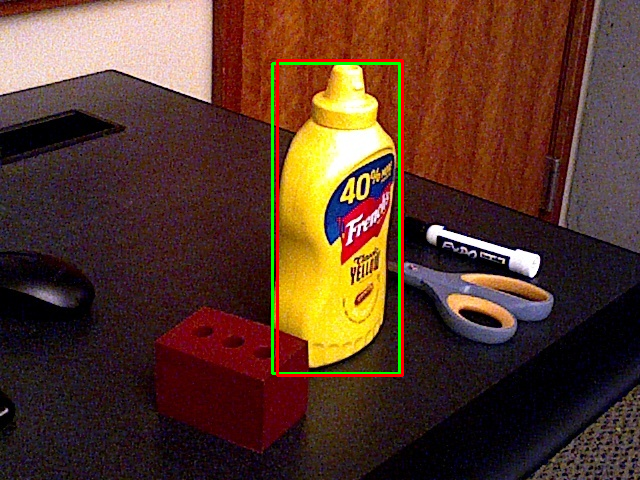
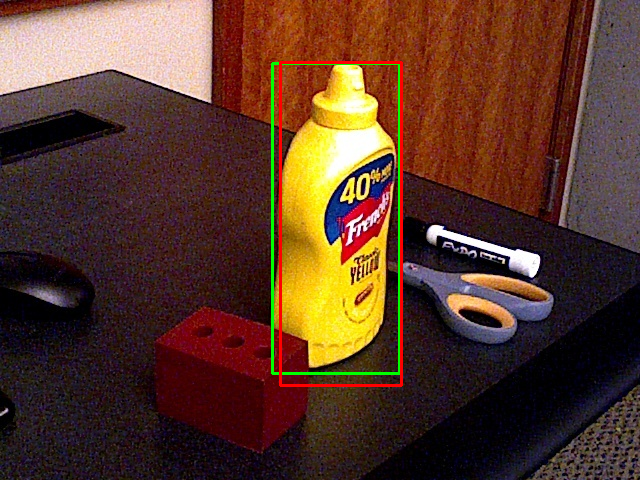
surf

Changed region(s): [[0.4062, 0.125, 0.6562, 0.8125]]

diff --git a/code/src/ObjectDetector/FeaturePipeline/FeaturePipeline.cpp b/code/src/ObjectDetector/FeaturePipeline/FeaturePipeline.cpp
@@ -76,18 +76,18 @@ Label FeaturePipeline::findBoundingBox(const std::vector<cv::DMatch>& matches,
     const cv::Mat& img_scene,
     Object_Type object_type) const 
 {
-    const int minMatches= 10;
+    const int minMatches = 4;
 
     if (matches.size() < minMatches) {
-        //std::cout << "Not enough matches are found - " << matches.size() << "/" << minMatches << std::endl;
+        std::cout << "Not enough matches are found - " << matches.size() << "/" << minMatches << std::endl;
         return Label(object_type, cv::Rect());
     }
 
-    //cv::Mat cropped_imgModel = img_model(cv::boundingRect(mask_model)); // crop the image to remove the white background of the mask
-    //cv::Mat cropped_maskModel = mask_model(cv::boundingRect(mask_model)); // crop the mask to remove the white background of the mask
+    cv::Mat cropped_imgModel = img_model(cv::boundingRect(mask_model)); // crop the image to remove the white background of the mask
+    cv::Mat cropped_maskModel = mask_model(cv::boundingRect(mask_model)); // crop the mask to remove the white background of the mask
 
-    cv::Mat cropped_imgModel = img_model.clone();   //just to avoid changing the names on the next varaibles, in the definitive version I will change the names
-    cv::Mat cropped_maskModel = mask_model.clone();
+    //cv::Mat cropped_imgModel = img_model.clone();   //just to avoid changing the names on the next varaibles, in the definitive version I will change the names
+    //cv::Mat cropped_maskModel = mask_model.clone();
 
     std::vector<cv::Point2f> scene_pts, model_pts;
     for (const auto& match : matches) {
@@ -99,12 +99,11 @@ Label FeaturePipeline::findBoundingBox(const std::vector<cv::DMatch>& matches,
     cv::Mat homography_mask;
     cv::Mat H = cv::findHomography(model_pts, scene_pts, cv::RANSAC, 5.0, homography_mask);
     if (H.empty()){
-        //std::cout << "H empty" << std::endl;
+        std::cout << "H empty" << std::endl;
         return Label(object_type, cv::Rect());
     }
-    // std::cout << "H: " << H << std::endl;
+    
 
-   
     cv::Rect mask_rect = cv::boundingRect(cropped_maskModel);
     std::vector<cv::Point2f> model_corners = {
         {static_cast<float>(mask_rect.x), static_cast<float>(mask_rect.y)},
@@ -120,19 +119,7 @@ Label FeaturePipeline::findBoundingBox(const std::vector<cv::DMatch>& matches,
     std::vector<cv::Point2f> scene_corners;     //corners of the detected object in the scene (not a horizontal/vertical rectangle, but commonly rotated)
     cv::perspectiveTransform(model_corners, scene_corners, H);
     
-    /*
-    scene_corners[0] = scene_corners[0] + model_corners[1] - model_corners[0];  //keep the subtraction even if model_corners[0] is 0,0
-    scene_corners[1] = scene_corners[1] + model_corners[1] - model_corners[0];
-    scene_corners[2] = scene_corners[2] + model_corners[1] - model_corners[0];
-    scene_corners[3] = scene_corners[3] + model_corners[1] - model_corners[0];
-    */
-   
-    /*
-    for( int i = 0; i < scene_corners.size(); i++){
-        std::cout << "scene_corners[" << i << "]: " << scene_corners[i] << std::endl;
-        
-    }*/
-
+    
     std::vector<cv::Point2i> scene_corners_int;
     for( int i = 0; i < scene_corners.size(); i++){
         scene_corners_int.push_back(cv::Point2i(scene_corners[i].x, scene_corners[i].y));

diff --git a/code/src/ObjectDetector/FeaturePipeline/FeatureDetector.cpp b/code/src/ObjectDetector/FeaturePipeline/FeatureDetector.cpp
@@ -2,6 +2,7 @@
 #include "../../../include/CustomErrors.h"
 #include "../../../include/Utils.h"
 #include "../../../include/ObjectDetector/FeaturePipeline/ImageFilter.h"
+#include <opencv2/xfeatures2d.hpp>
 
 void FeatureDetector::init(){
     switch (this->type) {
@@ -10,6 +11,9 @@ void FeatureDetector::init(){
             break;
         case DetectorType::Type::ORB:
             this->features_detector = cv::ORB::create();
+            break;
+        case DetectorType::Type::SURF:
+            this->features_detector = cv::xfeatures2d::SURF::create();
             break;
         default:
             throw CustomErrors::InvalidArgumentError("type", "Invalid feature detector type");
@@ -39,8 +43,8 @@ void FeatureDetector::detectModelsFeatures(const std::vector<std::pair<std::stri
         }
 
         //IF YOU WANT TO USE THE FULL IMAGE, COMMENT THE NEXT 2 LINES, otherwise the image will be cropped to the bounding box of the mask
-        //img = img(cv::boundingRect(mask)); // crop the image to remove the white background of the mask
-        //mask = mask(cv::boundingRect(mask)); // crop the mask to remove the white background of the mask
+        img = img(cv::boundingRect(mask)); // crop the image to remove the white background of the mask
+        mask = mask(cv::boundingRect(mask)); // crop the mask to remove the white background of the mask
 
         //model image filtering if the filter component is present
         if(image_filter != nullptr){

diff --git a/code/include/ObjectDetector/FeaturePipeline/FeatureDetector.h b/code/include/ObjectDetector/FeaturePipeline/FeatureDetector.h
@@ -10,11 +10,14 @@ class DetectorType{
     public:
     enum class Type{
         SIFT,
-        ORB
+        ORB,
+        SURF
     };
 
     static std::vector<DetectorType::Type> getDetectorTypes() {
-        return { DetectorType::Type::SIFT, DetectorType::Type::ORB };
+        return { DetectorType::Type::SIFT, 
+            DetectorType::Type::ORB, 
+            DetectorType::Type::SURF};
     }
 
    
@@ -22,6 +25,7 @@ class DetectorType{
         switch (type) {
             case Type::SIFT: return "SIFT";
             case Type::ORB: return "ORB";
+            case Type::SURF: return "SURF";
             default: throw std::invalid_argument("Unknown detector type");
         }
     }

diff --git a/code/src/ObjectDetector/FeaturePipeline/FeatureMatcher.cpp b/code/src/ObjectDetector/FeaturePipeline/FeatureMatcher.cpp
@@ -17,6 +17,7 @@ void FeatureMatcher::init(){
 }
 
 void FeatureMatcher::matchFeatures( const cv::Mat& modelDescriptors, const cv::Mat& sceneDescriptors, std::vector<cv::DMatch>& matches) const{
+    
     matches.clear();
 
     if (modelDescriptors.empty()) {
@@ -34,7 +35,7 @@ void FeatureMatcher::matchFeatures( const cv::Mat& modelDescriptors, const cv::M
         if (knn_matches[i].size() >= 2) {
             const cv::DMatch& m = knn_matches[i][0];
             const cv::DMatch& n = knn_matches[i][1];
-            if (m.distance < 0.7f * n.distance) {
+            if (m.distance < 0.7f * n.distance ) { 
                 matches.push_back(m);
             }
         }

diff --git a/code/src/main.cpp b/code/src/main.cpp
@@ -41,7 +41,8 @@ int main(int argc, const char* argv[]){
 
         std::map<std::string, std::vector<Label>> predicted_items; 
         std::map<std::string, std::vector<Label>> real_items = obj_dataset.second.get_test_items();
-
+        
+        
         ObjectDetector* object_detector = new FeaturePipeline(new FeatureDetector(DetectorType::Type::SIFT), new FeatureMatcher(MatcherType::Type::FLANN), obj_dataset.second);
         object_detector->detect_object_whole_dataset(ds, predicted_items);
         

diff --git a/code/src/DetectionAccuracy.cpp b/code/src/DetectionAccuracy.cpp
@@ -54,7 +54,6 @@ double Utils::DetectionAccuracy::calculateMeanIoU(const Object_Type obj, std::ma
                 double iou = Utils::DetectionAccuracy::calculateIoU(predicted_label, real_label);
                 sum = sum + iou;
                 
-
             }
             total_predictions++;
         }

diff --git a/code/include/ObjectDetector/FeaturePipeline/FeatureMatcher.h b/code/include/ObjectDetector/FeaturePipeline/FeatureMatcher.h
@@ -1,3 +1,5 @@
+#ifndef FEATURE_MATCHER_H
+#define FEATURE_MATCHER_H
 #include <opencv2/opencv.hpp>
 
 
@@ -49,3 +51,5 @@ class FeatureMatcher{
 
    
 };
+
+#endif
